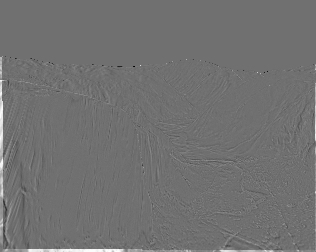
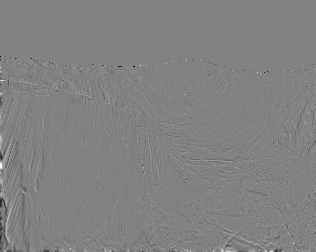
ps4 3b Basic working code. May need tuning.

diff --git a/code/PS4/ps04/experiment.py b/code/PS4/ps04/experiment.py
@@ -189,11 +189,11 @@ def part_3a_1():
     yos_img_02 = cv2.imread(
         os.path.join(input_dir, 'DataSeq1', 'yos_img_02.jpg'), 0) / 255.
 
-    levels = 1  # Define the number of pyramid levels
+    levels = 2  # Define the number of pyramid levels
     yos_img_01_g_pyr = ps4.gaussian_pyramid(yos_img_01, levels)
     yos_img_02_g_pyr = ps4.gaussian_pyramid(yos_img_02, levels)
 
-    level_id = 1  # TODO: Select the level number (or id) you wish to use
+    level_id = 1   # TODO: Select the level number (or id) you wish to use
     k_size = 51 # TODO: Select a kernel size
     k_type = "gaussian"  # TODO: Select a kernel type
     sigma = 30  # TODO: Select a sigma value if you are using a gaussian kernel
@@ -229,14 +229,14 @@ def part_3a_2():
     yos_img_03 = cv2.imread(
         os.path.join(input_dir, 'DataSeq1', 'yos_img_03.jpg'), 0) / 255.
 
-    levels = 1  # Define the number of pyramid levels
+    levels = 2  # Define the number of pyramid levels
     yos_img_02_g_pyr = ps4.gaussian_pyramid(yos_img_02, levels)
     yos_img_03_g_pyr = ps4.gaussian_pyramid(yos_img_03, levels)
 
     level_id = 1 # TODO: Select the level number (or id) you wish to use
-    k_size = 0 # TODO: Select a kernel size
-    k_type = ""  # TODO: Select a kernel type
-    sigma = 0 # TODO: Select a sigma value if you are using a gaussian kernel
+    k_size = 51 # TODO: Select a kernel size
+    k_type = "gaussian"  # TODO: Select a kernel type
+    sigma = 30 # TODO: Select a sigma value if you are using a gaussian kernel
     u, v = ps4.optic_flow_lk(yos_img_02_g_pyr[level_id],
                              yos_img_03_g_pyr[level_id],
                              k_size, k_type, sigma)
@@ -356,7 +356,7 @@ if __name__ == '__main__':
     # part_1b()
     # part_2()
     part_3a_1()
-    # part_3a_2()
+    part_3a_2()
     # part_4a()
     # part_4b()
     # part_5a()

diff --git a/code/PS4/ps04/ps4_test.py b/code/PS4/ps04/ps4_test.py
@@ -187,7 +187,7 @@ class Part3(unittest.TestCase):
             f2 = self.input_imgs_2[i]
             f3 = self.input_flows[i]
 
-            img1 = np.load(INPUT_DIR + f1,encoding = 'latin1')  # Not used
+            img1 = np.load(INPUT_DIR + f1,encoding = 'latin1', allow_pickle=True)  # Not used
             img2 = np.load(INPUT_DIR + f2,encoding = 'latin1', allow_pickle=True)
             u_v = np.load(INPUT_DIR + f3,encoding = 'latin1', allow_pickle=True)
 

diff --git a/code/PS4/ps04/ps4.py b/code/PS4/ps04/ps4.py
@@ -2,7 +2,7 @@
 
 import numpy as np
 import cv2
-from trackbar import display_trackbar_window, param, scale
+# from trackbar import display_trackbar_window, param, scale
 
 ##########################################################################################
 # Experimental
